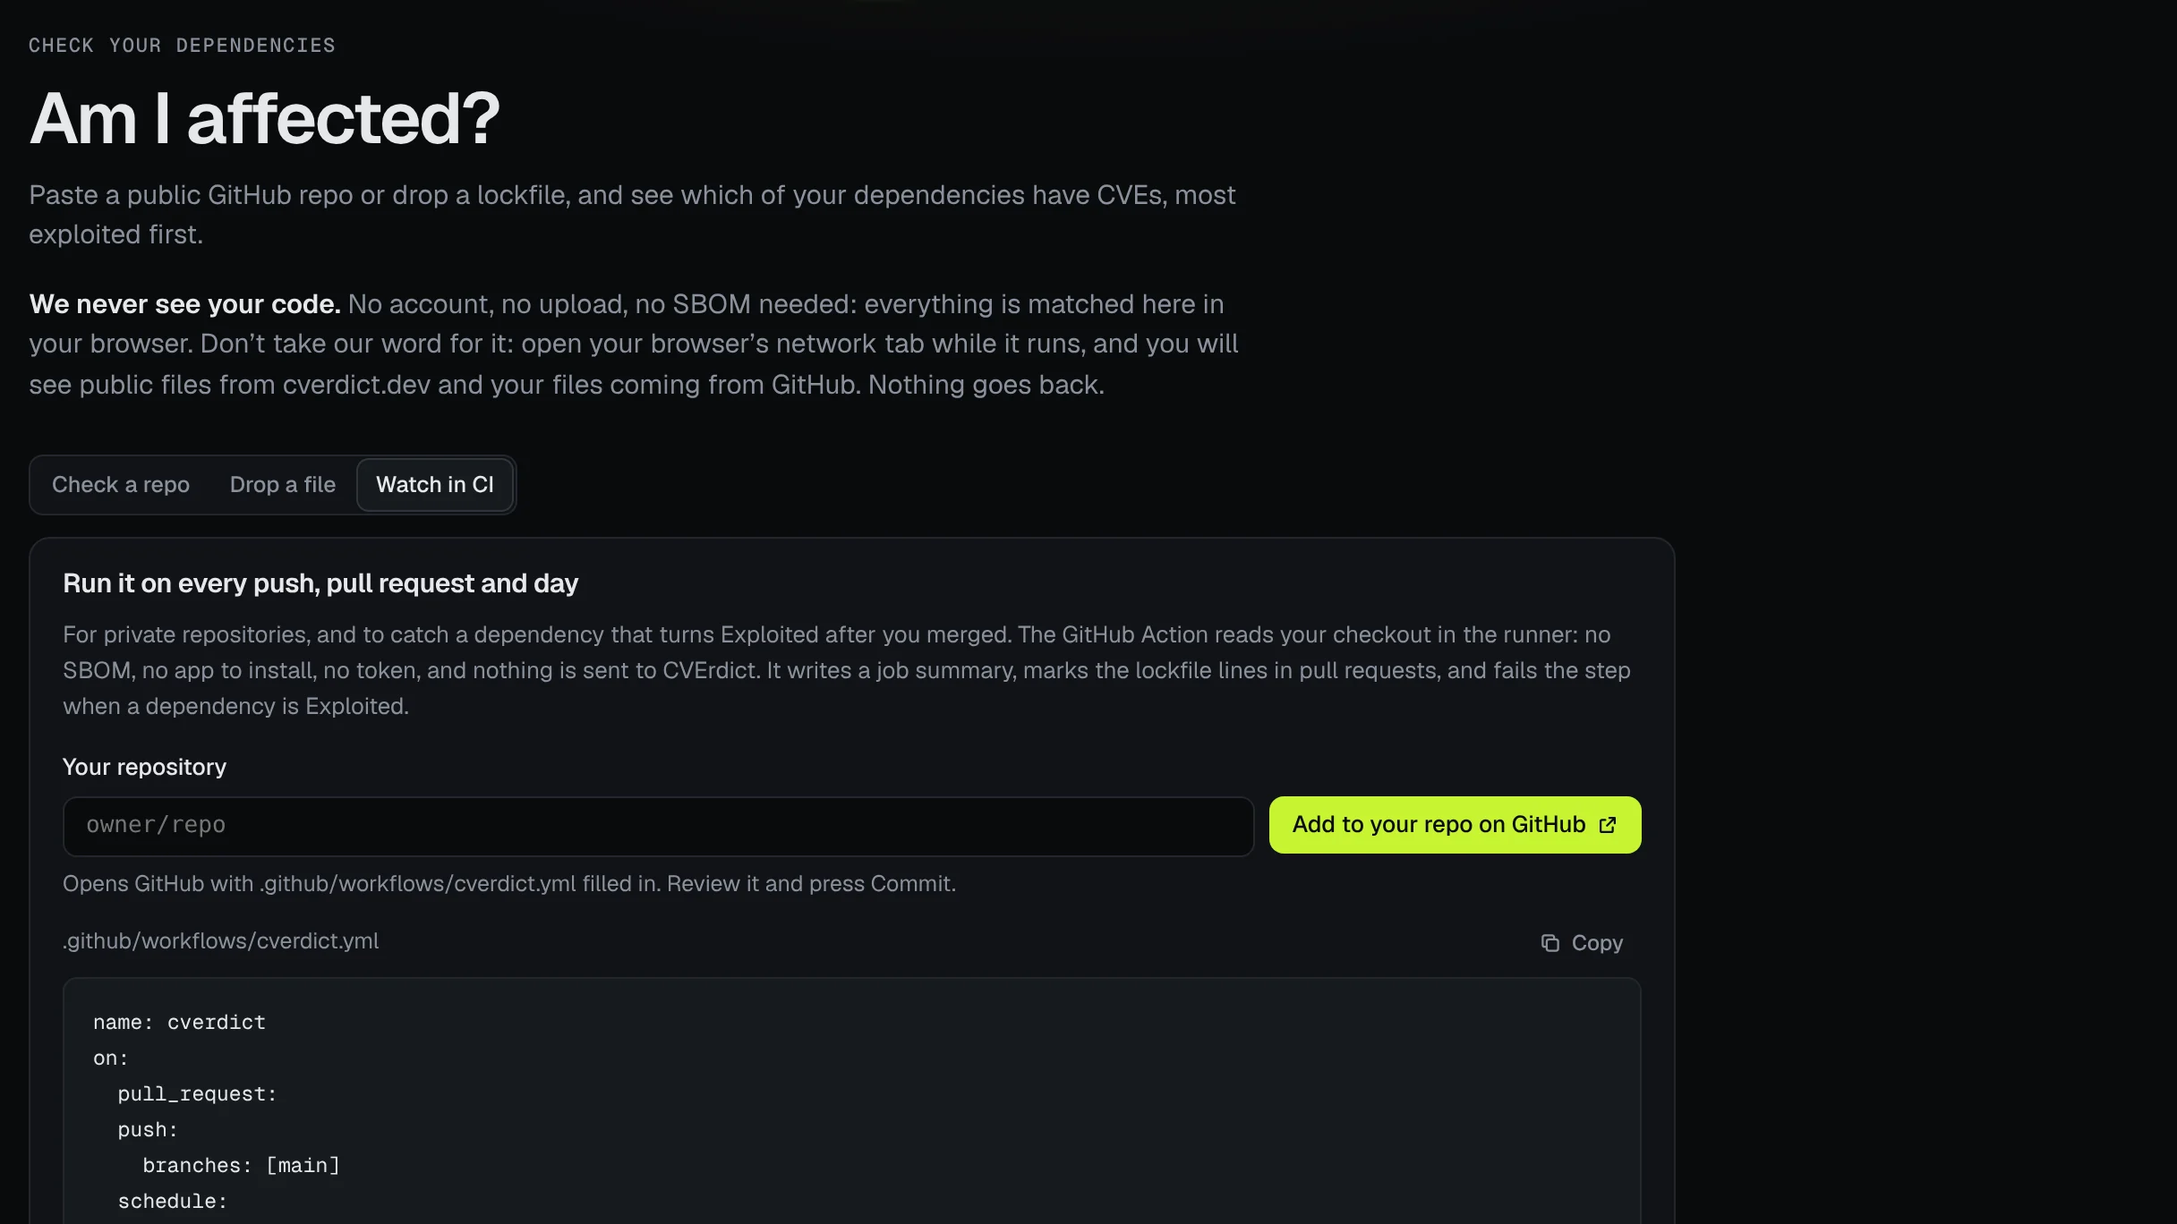
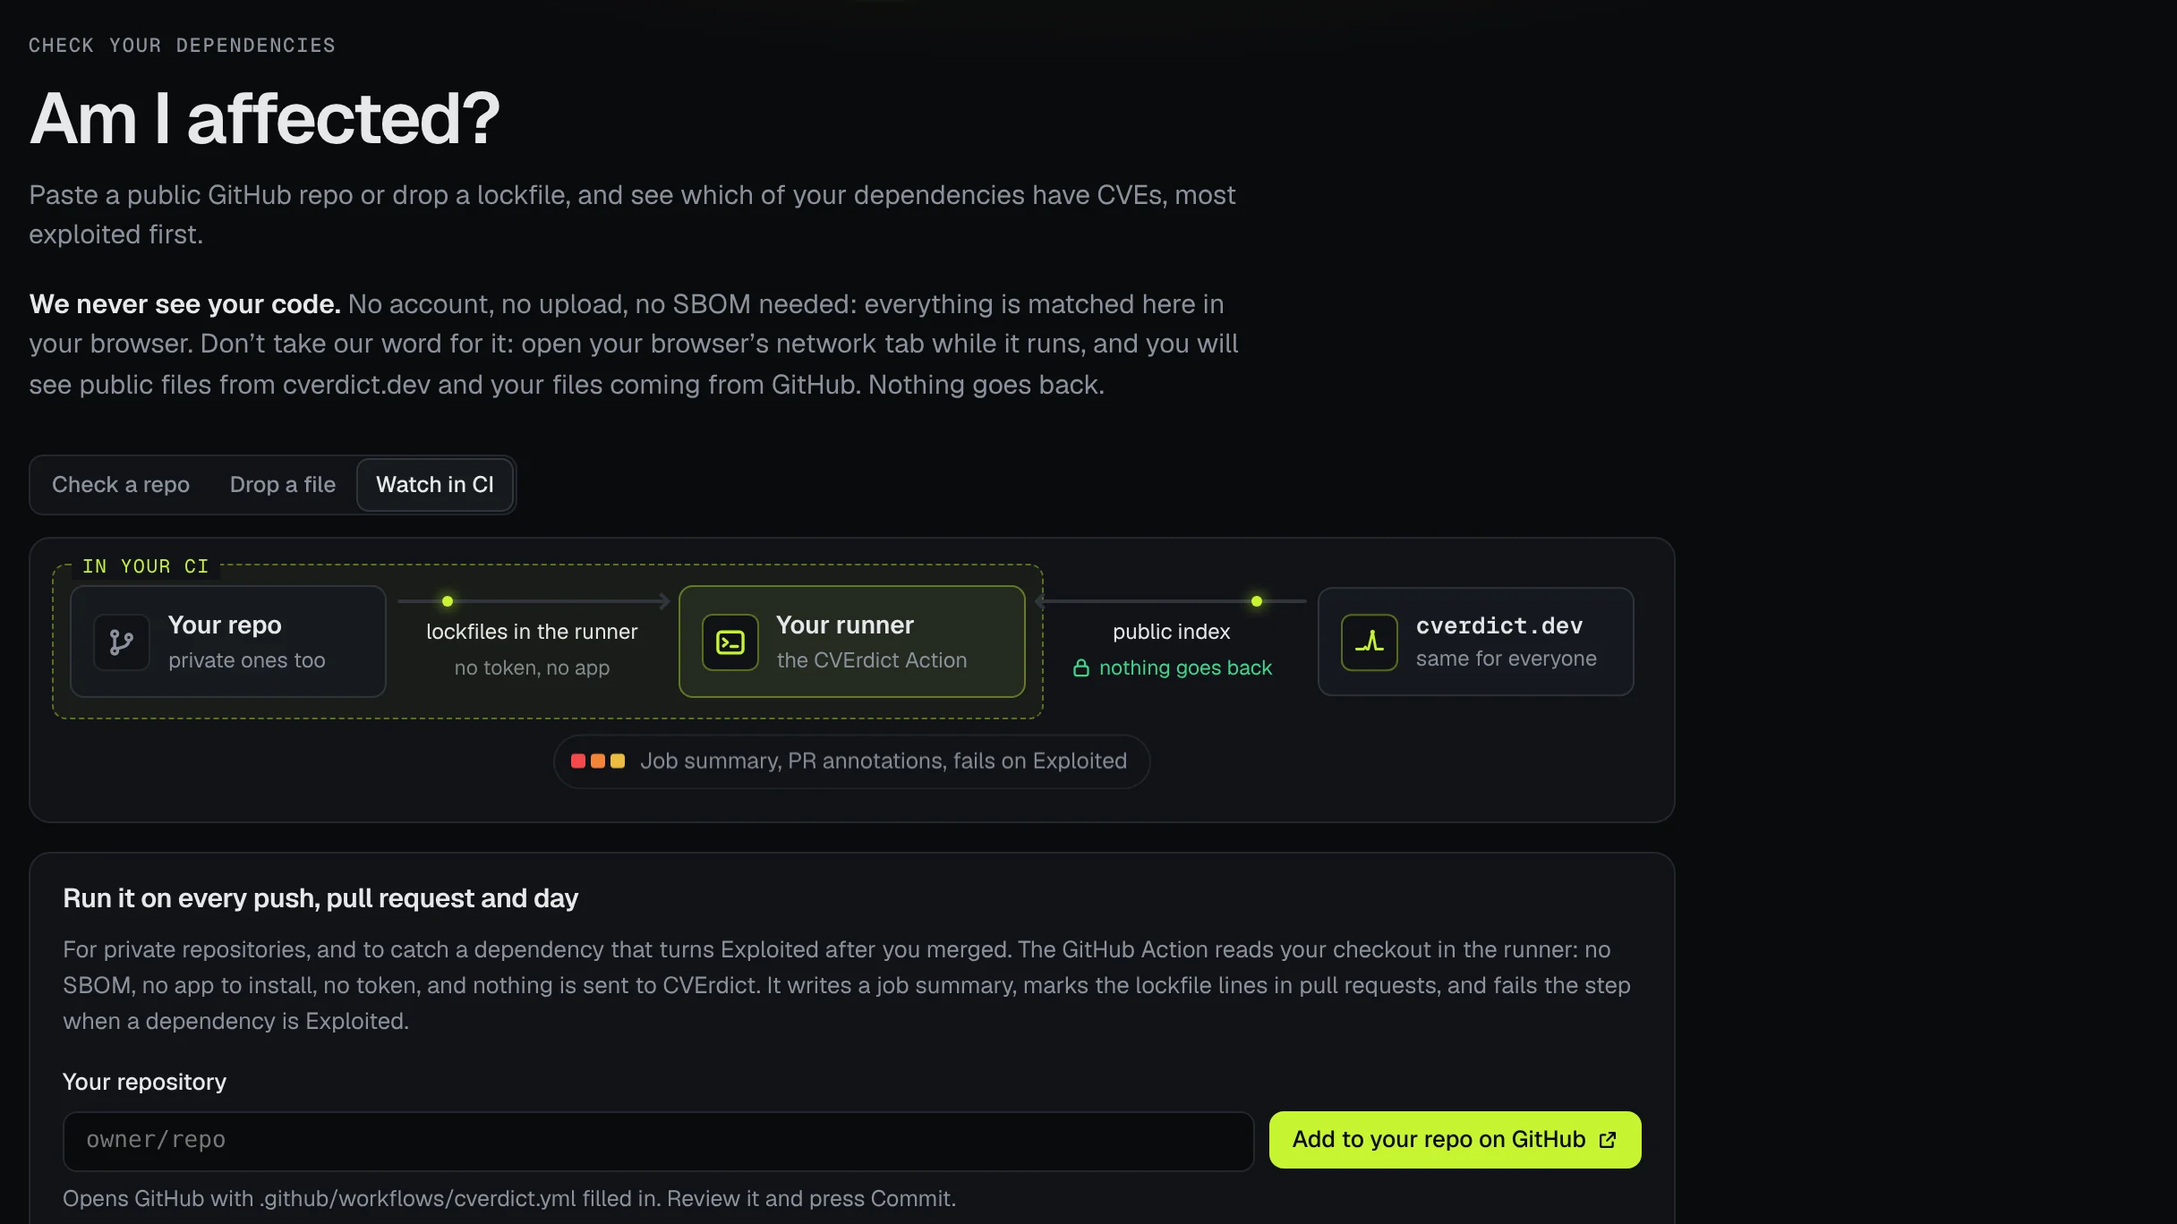
Check: a data-flow diagram for each tab
Above the tabs' panels, a diagram shows where your files come from, where they are matched,
and what comes from cverdict.dev: GitHub to your browser (only the repo name goes out), a
file read in place, or your repo checked out in your own runner. The dashed zone is what
stays on your side, dots move toward the matching along the wires, and the cverdict.dev wire
says nothing goes back. It is built from the site's tokens and icons, so both themes work;
on phones it runs top to bottom, and the dots stop under prefers-reduced-motion. Screen
readers get one sentence per tab instead of the boxes.

The repo-check GIF and the Watch in CI still are recorded again, with their alt text.

Claude-Session: https://claude.ai/code/session_014y4cbadidDdMh4wQrQPiJw

diff --git a/site/src/styles/pages.css b/site/src/styles/pages.css
@@ -3425,3 +3425,229 @@ circle.dc__kev {
     max-width: 128px;
   }
 }
+
+/* ---------------------------------------------------------------------------------------------
+   Check: the data-flow diagram above each tab (components/CheckFlow.tsx)
+   --------------------------------------------------------------------------------------------- */
+.flow {
+  max-width: 920px;
+  margin: 0 0 16px;
+  padding: 26px 22px 18px;
+  border: 1px solid var(--border);
+  border-radius: var(--r-lg);
+  background: var(--surface);
+  animation: flow-in 0.45s var(--ease) both;
+}
+
+.flow__grid {
+  display: grid;
+  grid-template-columns: minmax(0, 1fr) minmax(96px, 0.85fr) minmax(0, 1.1fr) minmax(96px, 0.85fr) minmax(0, 1fr);
+  grid-template-rows: auto auto;
+  align-items: center;
+  column-gap: 6px;
+  row-gap: 14px;
+}
+
+.flow__zone {
+  grid-row: 1;
+  align-self: stretch;
+  margin: -12px -10px;
+  border: 1px dashed var(--b-accent);
+  border-radius: var(--r);
+  background: color-mix(in srgb, var(--accent) 4%, transparent);
+  position: relative;
+}
+.flow__zone--mid { grid-column: 3; }
+.flow__zone--left { grid-column: 1 / 4; }
+
+.flow__zonelabel {
+  position: absolute;
+  top: -8px;
+  left: 10px;
+  padding: 0 6px;
+  background: var(--surface);
+  color: var(--accent);
+  font-family: var(--font-mono);
+  font-size: 10.5px;
+  letter-spacing: 0.08em;
+  text-transform: uppercase;
+  line-height: 16px;
+}
+
+.flow__node {
+  grid-row: 1;
+  position: relative;
+  z-index: 1;
+  display: flex;
+  align-items: center;
+  gap: 10px;
+  min-width: 0;
+  padding: 11px 12px;
+  border: 1px solid var(--border-strong);
+  border-radius: var(--r);
+  background: var(--raised);
+  animation: flow-in 0.45s var(--ease) both;
+}
+.flow__node--src { grid-column: 1; }
+.flow__node--mid { grid-column: 3; animation-delay: 0.08s; border-color: var(--b-accent); background: color-mix(in srgb, var(--accent) 8%, var(--raised)); }
+.flow__node--dst { grid-column: 5; animation-delay: 0.16s; }
+
+.flow__icon {
+  display: grid;
+  place-items: center;
+  flex: none;
+  width: 32px;
+  height: 32px;
+  border-radius: var(--r-sm);
+  border: 1px solid var(--border);
+  background: var(--surface);
+  color: var(--muted);
+}
+.flow__node--mid .flow__icon,
+.flow__node--dst .flow__icon { color: var(--accent); border-color: var(--b-accent); }
+
+.flow__text { display: flex; flex-direction: column; min-width: 0; }
+.flow__title { font-weight: 600; font-size: 14px; color: var(--text); }
+.flow__sub { font-size: 12px; color: var(--muted); }
+.flow__node--dst .flow__title { font-family: var(--font-mono); font-size: 13px; }
+
+.flow__wire {
+  grid-row: 1;
+  display: flex;
+  flex-direction: column;
+  align-items: center;
+  gap: 7px;
+  min-width: 0;
+  text-align: center;
+}
+.flow__wire--in { grid-column: 2; }
+.flow__wire--index { grid-column: 4; }
+
+/* The wire, with its arrowhead pointing at the place the matching happens. */
+.flow__line {
+  position: relative;
+  display: block;
+  width: 100%;
+  height: 2px;
+  border-radius: 2px;
+  background: var(--border-strong);
+}
+.flow__line::after {
+  content: '';
+  position: absolute;
+  top: 50%;
+  width: 7px;
+  height: 7px;
+  border-top: 2px solid var(--border-strong);
+  border-right: 2px solid var(--border-strong);
+}
+.flow__wire--in .flow__line::after { right: 0; transform: translateY(-50%) rotate(45deg); }
+.flow__wire--index .flow__line::after { left: 0; transform: translateY(-50%) rotate(-135deg); }
+
+.flow__dot {
+  position: absolute;
+  top: 50%;
+  width: 6px;
+  height: 6px;
+  margin-top: -3px;
+  border-radius: 50%;
+  background: var(--accent);
+  box-shadow: 0 0 8px var(--accent);
+  opacity: 0;
+  animation: flow-x 2.4s linear infinite;
+}
+.flow__dot--late { animation-delay: 1.2s; }
+.flow__wire--index .flow__dot { animation-name: flow-x-back; }
+
+.flow__wiretext { display: flex; flex-direction: column; gap: 2px; min-width: 0; }
+.flow__label { font-size: 12px; color: var(--text); text-wrap: balance; }
+.flow__note { font-size: 11.5px; color: var(--faint); text-wrap: balance; }
+.flow__note--safe { display: inline-flex; align-items: center; justify-content: center; gap: 4px; }
+.flow__note--safe { color: var(--ok); }
+
+.flow__result {
+  grid-column: 2 / 5;
+  grid-row: 2;
+  justify-self: center;
+  display: inline-flex;
+  align-items: center;
+  gap: 8px;
+  margin-top: 6px;
+  padding: 5px 12px 5px 9px;
+  border: 1px solid var(--border);
+  border-radius: 999px;
+  font-size: 12.5px;
+  color: var(--muted);
+  animation: flow-in 0.45s var(--ease) 0.24s both;
+}
+.flow__tiers { display: inline-flex; gap: 3px; }
+.flow__tier { width: 8px; height: 8px; border-radius: 2px; }
+.flow__tier--exploited { background: var(--exploited); }
+.flow__tier--likely { background: var(--likely); }
+.flow__tier--watch { background: var(--watch); }
+
+@keyframes flow-in {
+  from { opacity: 0; transform: translateY(4px); }
+  to { opacity: 1; transform: none; }
+}
+@keyframes flow-x {
+  0% { left: 0; opacity: 0; }
+  15%, 80% { opacity: 1; }
+  100% { left: calc(100% - 10px); opacity: 0; }
+}
+@keyframes flow-x-back {
+  0% { left: calc(100% - 6px); opacity: 0; }
+  15%, 80% { opacity: 1; }
+  100% { left: 4px; opacity: 0; }
+}
+@keyframes flow-y {
+  0% { top: 0; opacity: 0; }
+  15%, 80% { opacity: 1; }
+  100% { top: calc(100% - 10px); opacity: 0; }
+}
+@keyframes flow-y-back {
+  0% { top: calc(100% - 6px); opacity: 0; }
+  15%, 80% { opacity: 1; }
+  100% { top: 4px; opacity: 0; }
+}
+
+/* Phones: the same flow, top to bottom. */
+@media (max-width: 720px) {
+  .flow { padding: 22px 16px 16px; }
+  .flow__grid {
+    grid-template-columns: minmax(0, 1fr);
+    grid-template-rows: repeat(6, auto);
+    row-gap: 0;
+  }
+  .flow__node--src { grid-column: 1; grid-row: 1; }
+  .flow__wire--in { grid-column: 1; grid-row: 2; }
+  .flow__node--mid { grid-column: 1; grid-row: 3; }
+  .flow__wire--index { grid-column: 1; grid-row: 4; }
+  .flow__node--dst { grid-column: 1; grid-row: 5; }
+  .flow__result { grid-column: 1; grid-row: 6; justify-self: stretch; margin-top: 16px; border-radius: var(--r); }
+  .flow__zone--mid { grid-column: 1; grid-row: 3; margin: -10px -8px; }
+  .flow__zone--left { grid-column: 1; grid-row: 1 / 4; margin: -12px -8px -10px; }
+  .flow__wire {
+    flex-direction: row;
+    justify-content: flex-start;
+    gap: 14px;
+    padding: 10px 0 10px 26px;
+    text-align: left;
+  }
+  /* Room for the zone's edge and label, which reach past the browser's row. */
+  .flow__wire--in { padding-bottom: 26px; }
+  .flow__wire--index { padding-top: 18px; }
+  .flow__line { width: 2px; height: 34px; flex: none; }
+  .flow__wire--in .flow__line::after { top: auto; bottom: 0; left: 50%; right: auto; transform: translateX(-50%) rotate(135deg); }
+  .flow__wire--index .flow__line::after { top: 0; left: 50%; transform: translateX(-50%) rotate(-45deg); }
+  .flow__dot { left: 50%; top: 0; margin: 0 0 0 -3px; animation-name: flow-y; }
+  .flow__wire--index .flow__dot { animation-name: flow-y-back; }
+  .flow__note--safe { justify-content: flex-start; }
+}
+
+@media (prefers-reduced-motion: reduce) {
+  .flow,
+  .flow__node,
+  .flow__result { animation: none; }
+  .flow__dot { display: none; }
+}

diff --git a/site/src/components/CheckFlow.tsx b/site/src/components/CheckFlow.tsx
@@ -1,0 +1,113 @@
+/**
+ * The Check page's data-flow diagram, one per tab: where your files come from, where they are
+ * matched, and what comes from cverdict.dev. The dashed zone is what stays on your side. Every
+ * label is real text (read by screen readers in order); the wires and moving dots are decoration.
+ * The dots move toward the place the matching happens, and stop under prefers-reduced-motion.
+ */
+import type { ComponentChildren } from 'preact';
+import { IconLayers, IconLock, IconScan, IconSource, IconTerminal, Mark } from './icons';
+
+export type FlowMode = 'repo' | 'file' | 'ci';
+
+interface Node {
+  icon: ComponentChildren;
+  title: string;
+  sub: string;
+}
+interface Flow {
+  summary: string;
+  zone: { span: 'mid' | 'left'; label: string };
+  src: Node;
+  in: { label: string; note: string };
+  mid: Node;
+  result: string;
+}
+
+const FLOWS: Record<FlowMode, Flow> = {
+  repo: {
+    summary:
+      'GitHub sends the lockfiles and SBOMs of your public repository to your browser; only the repository name goes to GitHub. cverdict.dev sends the public index, the same files for everyone. Your browser matches and ranks them. Nothing goes back to cverdict.dev.',
+    zone: { span: 'mid', label: 'On your device' },
+    src: { icon: <IconSource size={18} />, title: 'GitHub', sub: 'your public repo' },
+    in: { label: 'lockfiles and SBOMs', note: 'only its name goes out' },
+    mid: { icon: <IconScan size={18} />, title: 'Your browser', sub: 'matches and ranks' },
+    result: 'Your dependencies with CVEs, most exploited first',
+  },
+  file: {
+    summary:
+      'Your lockfile or SBOM is read in place by your browser and never uploaded. cverdict.dev sends the public index, the same files for everyone. Your browser matches and ranks them. Nothing goes back to cverdict.dev.',
+    zone: { span: 'left', label: 'On your device' },
+    src: { icon: <IconLayers size={18} />, title: 'Your file', sub: 'lockfile or SBOM' },
+    in: { label: 'read in place', note: 'never uploaded' },
+    mid: { icon: <IconScan size={18} />, title: 'Your browser', sub: 'matches and ranks' },
+    result: 'Your dependencies with CVEs, most exploited first',
+  },
+  ci: {
+    summary:
+      'Your repository, private ones too, is checked out in your own GitHub Actions runner, where the CVErdict Action reads the lockfiles, with no token and no app. cverdict.dev sends the public index, the same files for everyone. Nothing goes back to cverdict.dev. The Action writes a job summary, marks lockfile lines in pull requests and fails on an Exploited dependency.',
+    zone: { span: 'left', label: 'In your CI' },
+    src: { icon: <IconSource size={18} />, title: 'Your repo', sub: 'private ones too' },
+    in: { label: 'lockfiles in the runner', note: 'no token, no app' },
+    mid: { icon: <IconTerminal size={18} />, title: 'Your runner', sub: 'the CVErdict Action' },
+    result: 'Job summary, PR annotations, fails on Exploited',
+  },
+};
+
+function FlowNode({ n, kind }: { n: Node; kind: 'src' | 'mid' | 'dst' }) {
+  return (
+    <div class={`flow__node flow__node--${kind}`}>
+      <span class="flow__icon">{n.icon}</span>
+      <span class="flow__text">
+        <span class="flow__title">{n.title}</span>
+        <span class="flow__sub">{n.sub}</span>
+      </span>
+    </div>
+  );
+}
+
+function Wire({ side, label, note, safe }: { side: 'in' | 'index'; label: string; note: string; safe?: boolean }) {
+  return (
+    <div class={`flow__wire flow__wire--${side}`}>
+      <span class="flow__line" aria-hidden="true">
+        <span class="flow__dot" />
+        <span class="flow__dot flow__dot--late" />
+      </span>
+      <span class="flow__wiretext">
+        <span class="flow__label">{label}</span>
+        <span class={`flow__note${safe ? ' flow__note--safe' : ''}`}>
+          {safe && <IconLock size={12} />}
+          {note}
+        </span>
+      </span>
+    </div>
+  );
+}
+
+export function CheckFlow({ mode }: { mode: FlowMode }) {
+  const f = FLOWS[mode];
+  return (
+    <figure class={`flow flow--${mode}`} key={mode} aria-labelledby="check-flow-cap">
+      <figcaption id="check-flow-cap" class="sr-only">
+        How it works: {f.summary}
+      </figcaption>
+      <div class="flow__grid" aria-hidden="true">
+        <div class={`flow__zone flow__zone--${f.zone.span}`}>
+          <span class="flow__zonelabel">{f.zone.label}</span>
+        </div>
+        <FlowNode n={f.src} kind="src" />
+        <Wire side="in" label={f.in.label} note={f.in.note} />
+        <FlowNode n={f.mid} kind="mid" />
+        <Wire side="index" label="public index" note="nothing goes back" safe />
+        <FlowNode n={{ icon: <Mark size={18} />, title: 'cverdict.dev', sub: 'same for everyone' }} kind="dst" />
+        <div class="flow__result">
+          <span class="flow__tiers">
+            <i class="flow__tier flow__tier--exploited" />
+            <i class="flow__tier flow__tier--likely" />
+            <i class="flow__tier flow__tier--watch" />
+          </span>
+          {f.result}
+        </div>
+      </div>
+    </figure>
+  );
+}

diff --git a/site/src/pages/Check.tsx b/site/src/pages/Check.tsx
@@ -6,6 +6,7 @@
  * web fonts are split by unicode-range, and rendering a character from another range would fetch a
  * font subset, a request that depends on the file. Rows here never prefetch a shard.
  */
+import { CheckFlow } from '../components/CheckFlow';
 import type { ComponentChildren } from 'preact';
 import { useEffect, useMemo, useRef, useState } from 'preact/hooks';
 import { BRAND, REPO_URL } from '../../../shared/brand';
@@ -672,6 +673,8 @@ export default function Check() {
           ))}
         </div>
       </div>
+
+      <CheckFlow mode={mode} />
 
       {mode === 'repo' && (
         <section class="panel check__card check__repo" aria-labelledby="check-repo-h" onFocusIn={touch} onPointerDown={touch}>

diff --git a/README.md b/README.md
@@ -77,7 +77,7 @@ you will see public files from cverdict.dev and your files coming from GitHub. N
 | **Your project, in a terminal** | `npx -y cverdict check` | Nothing. Only the public index is downloaded |
 | **A lockfile or SBOM** | Drop or paste it on the Check page's **Drop a file** tab | Nothing. It is read in your browser |
 
-<img alt="Demo of the Check page, Am I affected?, in the dark theme. The Check a repo tab is open. github.com/OWASP/NodeGoat is typed into the Repository field and Check repo is pressed. The results for OWASP/NodeGoat@master read: Read 1 file from OWASP/NodeGoat (master): 1,479 packages (1,091 distinct). 181 CVEs affect 128 of them, 4 Likely next, 35 Watch and 142 Quiet. The page scrolls to Likely next: CVE-2021-23337 in lodash 4.17.20, 4.17.11, 4.13.1 and 2.4.2, fixed in 4.17.21, score 60; CVE-2026-106445 and CVE-2026-33937 in handlebars 4.0.5, score 56; then CVE-2025-7783 in form-data, score 54." src="docs/assets/check-repo-dark.gif" width="100%">
+<img alt="Demo of the Check page, Am I affected?, in the dark theme. The Check a repo tab is open, with its diagram: GitHub sends the lockfiles and SBOMs to your browser, on your device, where they are matched and ranked; only the repo name goes out; cverdict.dev sends the public index, and nothing goes back. github.com/OWASP/NodeGoat is typed into the Repository field and Check repo is pressed. The results for OWASP/NodeGoat@master read: Read 1 file from OWASP/NodeGoat (master): 1,479 packages (1,091 distinct). 181 CVEs affect 128 of them, 4 Likely next, 35 Watch and 142 Quiet. The page scrolls to Likely next: CVE-2021-23337 in lodash 4.17.20, 4.17.11, 4.13.1 and 2.4.2, fixed in 4.17.21, score 60; CVE-2026-106445 and CVE-2026-33937 in handlebars 4.0.5, score 56; then CVE-2025-7783 in form-data, score 54." src="docs/assets/check-repo-dark.gif" width="100%">
 
 <sub>OWASP NodeGoat is an intentionally vulnerable app. Recorded from the production build with the data of
 Nov 27, 2026 14:47 UTC by <a href="tools/brand/screens.mjs"><code>tools/brand/screens.mjs</code></a>, with GitHub's
@@ -118,7 +118,7 @@ It writes a job summary, marks the lockfile lines in pull requests and fails the
 dependency is Exploited. SARIF for code scanning, other thresholds and every input:
 [cli/README.md](cli/README.md). The same check is the MCP server's `check_dependencies` tool.
 
-<a href="https://cverdict.dev/check"><img alt="The Watch in CI tab of the Check page, Am I affected?. Run it on every push, pull request and day: for private repositories, and to catch a dependency that turns Exploited after you merged. The GitHub Action reads your checkout in the runner: no SBOM, no app to install, no token, and nothing is sent to CVErdict. A Your repository field with the placeholder owner/repo and a button, Add to your repo on GitHub, which opens GitHub with .github/workflows/cverdict.yml filled in to review and commit. Below, the workflow file with a Copy button." src="docs/assets/screens/check-ci.webp" width="100%"></a>
+<a href="https://cverdict.dev/check"><img alt="The Watch in CI tab of the Check page, Am I affected?. Run it on every push, pull request and day: for private repositories, and to catch a dependency that turns Exploited after you merged. The GitHub Action reads your checkout in the runner: no SBOM, no app to install, no token, and nothing is sent to CVErdict. Above it, the diagram: your repo, private ones too, goes to your runner and the CVErdict Action, both inside a dashed box labelled In your CI; cverdict.dev sends the public index and nothing goes back; the result is a job summary, PR annotations and a failing step on Exploited. A Your repository field with the placeholder owner/repo and a button, Add to your repo on GitHub, which opens GitHub with .github/workflows/cverdict.yml filled in to review and commit." src="docs/assets/screens/check-ci.webp" width="100%"></a>
 
 <sub>The <b>Watch in CI</b> tab. The button opens GitHub's own new-file page with the workflow filled in: no app, no token, no account here.</sub>
 
